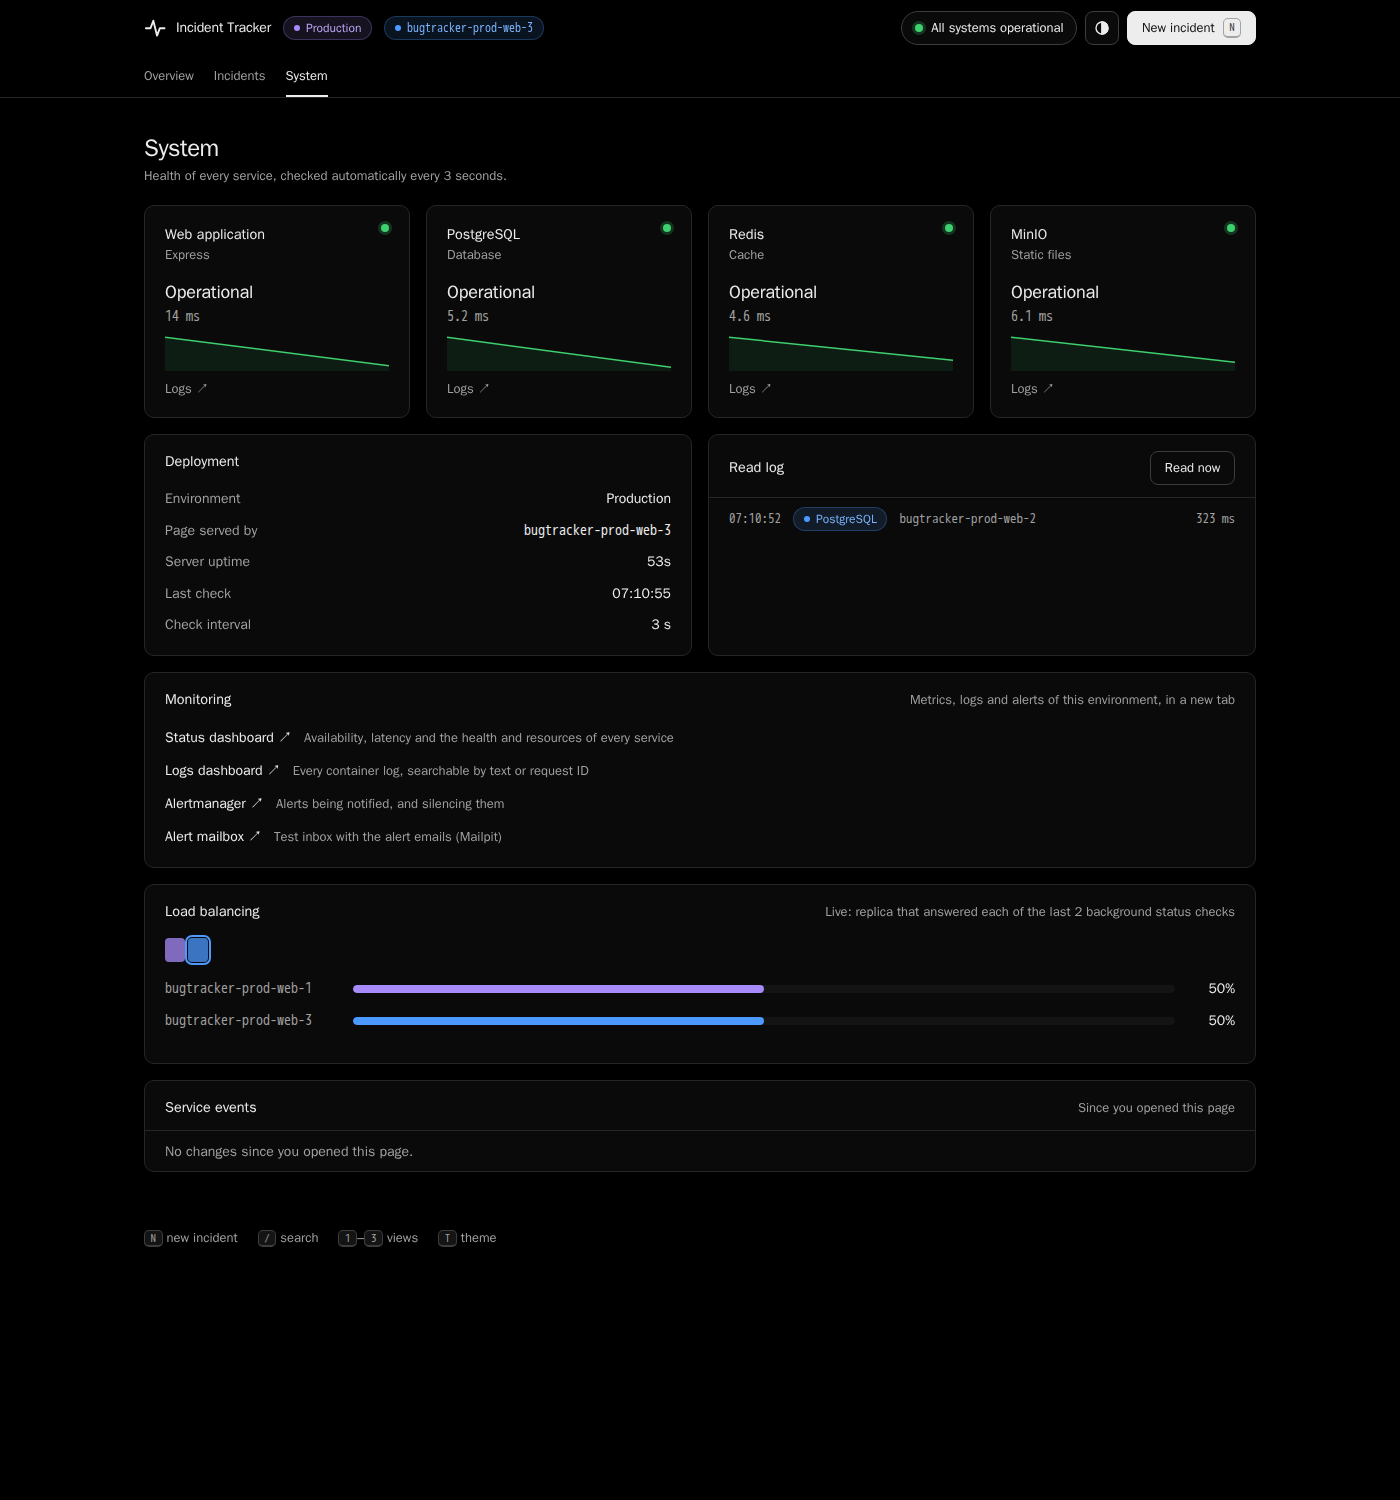
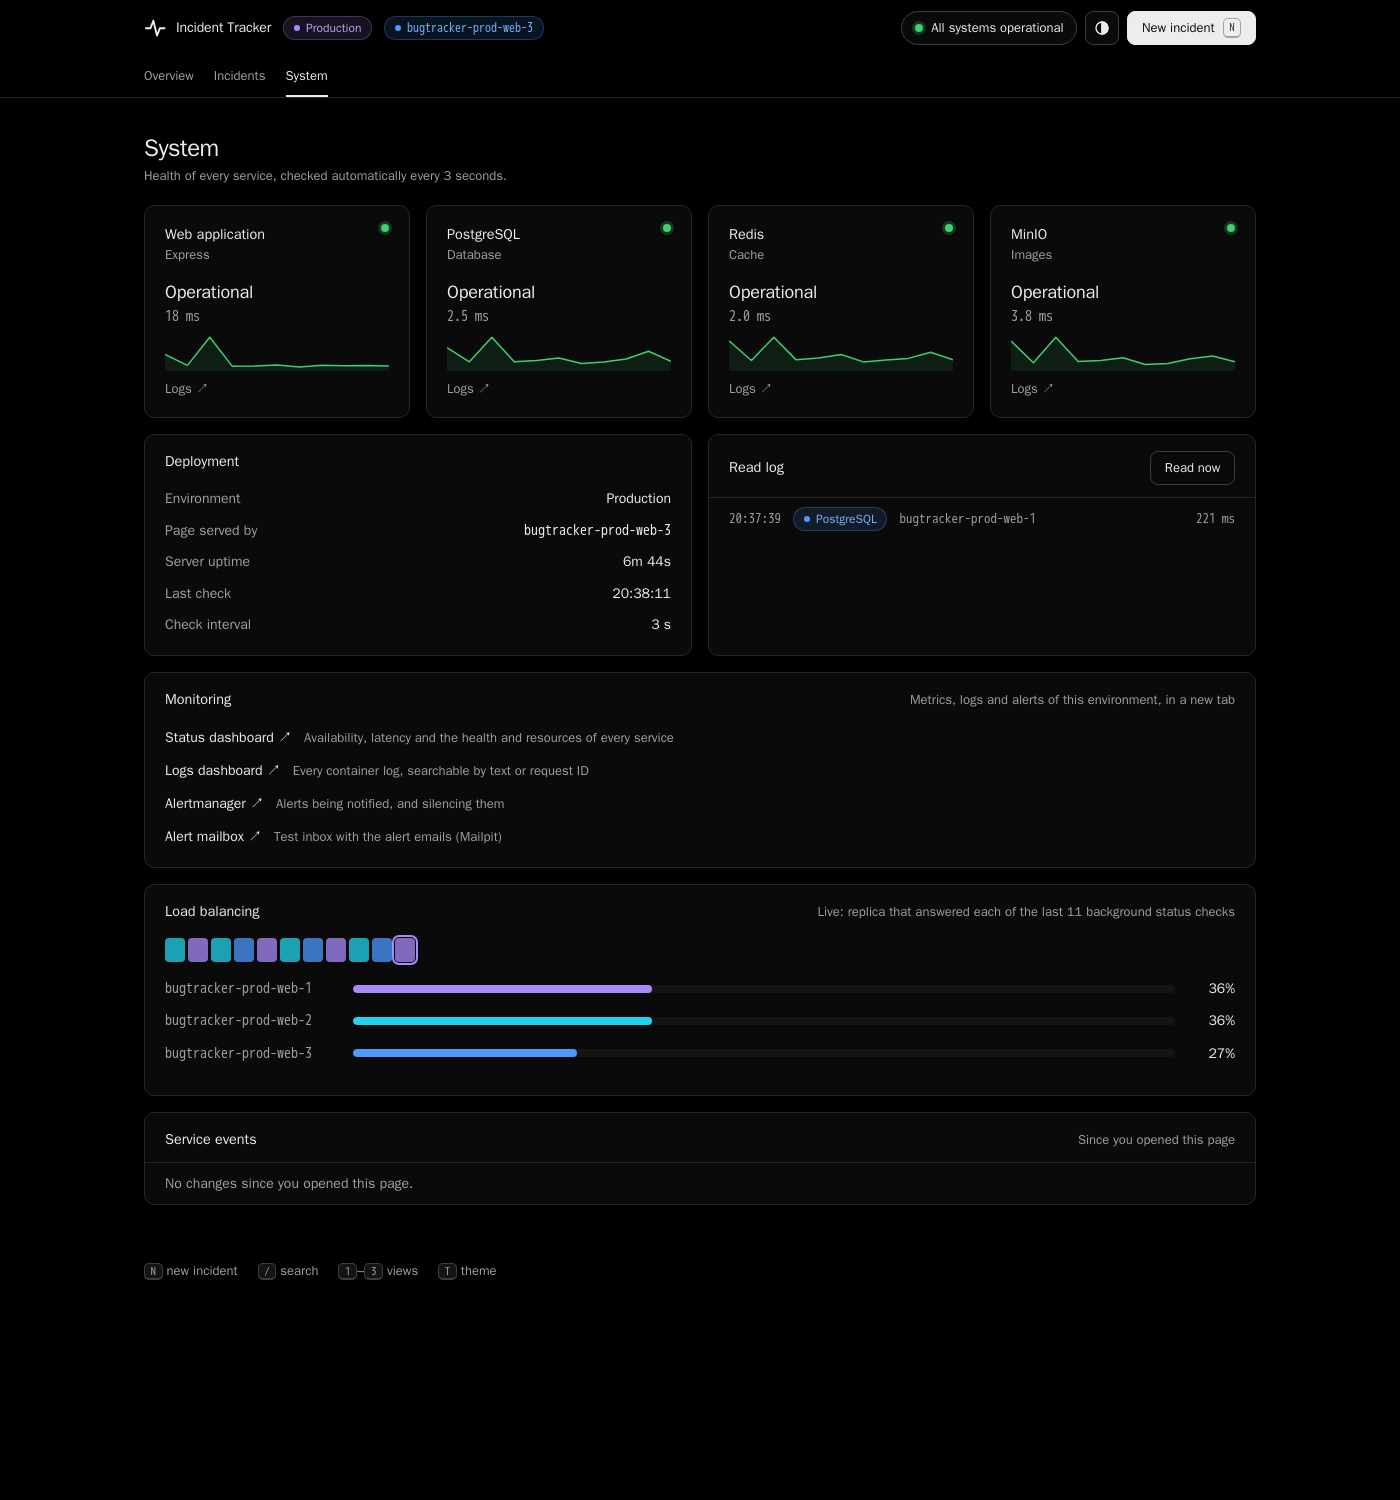
docs: describe images in object storage and refresh the evidence
The README shows the priority pictures, explains why the bucket holds
media and not the code of the page and how init.sh prepares it, and
lists the bucket contents among the known limitations. The System view
screenshot shows the MinIO card as Images. The evidence is a new run
from nothing (FRESH=1, 75 checks: one more than make test, that nothing
was left after destroying), and the README and the demo give the new
counts.

diff --git a/README.md b/README.md
@@ -16,7 +16,7 @@ A complete, production-style infrastructure for an IT incident tracker (Node.js,
 code with **Terraform** and run on Docker as a local cloud. One command brings up a development and a production
 environment side by side: a load balancer in front of replicated web servers, S3-compatible object storage, and
 observability with metrics, centralized logs, dashboards and alerts that reach email and Telegram. Every module is
-reusable, every container is hardened, and an end-to-end suite of 72 checks proves it all works.
+reusable, every container is hardened, and an end-to-end suite of 74 checks proves it all works.
 
 ---
 
@@ -73,6 +73,10 @@ graph LR
 The page shows **which replica served it** (header badge and the *System* view):
 
 ![System view in prod](docs/images/app-system-prod.png)
+
+Every priority shows its traffic-light picture, served from the MinIO bucket:
+
+<img src="docs/images/app-priorities.png" width="480" alt="New incident form with a picture for each priority" />
 
 ---
 
@@ -254,7 +258,7 @@ Searching a request ID in the *Logs* dashboard (here a 503 the load balancer ret
 ## 9. Verification & Automated Tests
 
 ```bash
-make test            # converge both environments, then 72 checks (about 5 minutes)
+make test            # converge both environments, then 74 checks (about 5 minutes)
 FRESH=1 make test    # destroy everything first and deploy from nothing
 make test-alerts     # alerting rules: syntax + promtool unit tests
 ```
@@ -263,8 +267,9 @@ The suite covers code checks (fmt, validate, no secret in git), an empty second 
 replicas, the cache, the images and their permissions, container hardening, high availability, database
 persistence, logs and metrics per environment, and an alert from firing to resolved email.
 
-> **Full test execution log:** [docs/evidence/test-results.txt](docs/evidence/test-results.txt) (`72 passed, 0 failed`).
-> Run from the submission zip without Telegram, the suite reports `70 passed`: the check on versioned files needs a
+> **Full test execution log:** [docs/evidence/test-results.txt](docs/evidence/test-results.txt) (`75 passed, 0 failed`:
+> run with `FRESH=1` from nothing, which adds one check, that nothing of the project was left after destroying).
+> Run from the submission zip without Telegram, the suite reports `72 passed`: the check on versioned files needs a
 > git clone and the Telegram check needs a bot, so both are skipped with an `INFO` line saying why.
 > Alert rule tests: [docs/evidence/alert-rules-tests.txt](docs/evidence/alert-rules-tests.txt).
 
@@ -330,12 +335,18 @@ If the demo is stopped early, it starts the replica again and returns prod to it
 - **One root per environment** instead of workspaces: separate state and `terraform.tfvars`, visible differences.
 - **Modules with no project names**, minimum provider versions only, optional inputs as `null` (Docker default).
 - **Pinned images** (exact tags; MinIO by digest because only `latest` is published).
+- **Object storage holds media, not code:** the bucket serves the priority pictures; CSS and JavaScript ship in the
+  web image and are versioned with it (in the cloud: S3 behind a CDN for media, the build pipeline for code).
+- **The bucket is prepared by an init script** that Terraform runs after MinIO is healthy: `mc` runs inside the MinIO
+  container through `docker exec`, so no extra container is left and the password never leaves MinIO. The MinIO
+  Terraform provider was ruled out: it needs MinIO running while planning and its API published.
 - **One monitoring stack per environment:** destroying dev never touches prod's monitoring, as separate cloud
   accounts would. A company with many environments would use one central platform.
 - **Limitations:** the load balancer, database and cache are single containers (in the cloud: managed, redundant
   services); a code change recreates all replicas at once (a rolling update would avoid the short outage); the
   Terraform state is local (in a team: remote, encrypted backend with locking); generated secrets are passed as
-  environment variables and visible with `docker inspect` (a secret manager would avoid it).
+  environment variables and visible with `docker inspect` (a secret manager would avoid it); the bucket contents are
+  not in the Terraform state, so a file deleted by hand only comes back when the folder changes.
 
 ---
 
